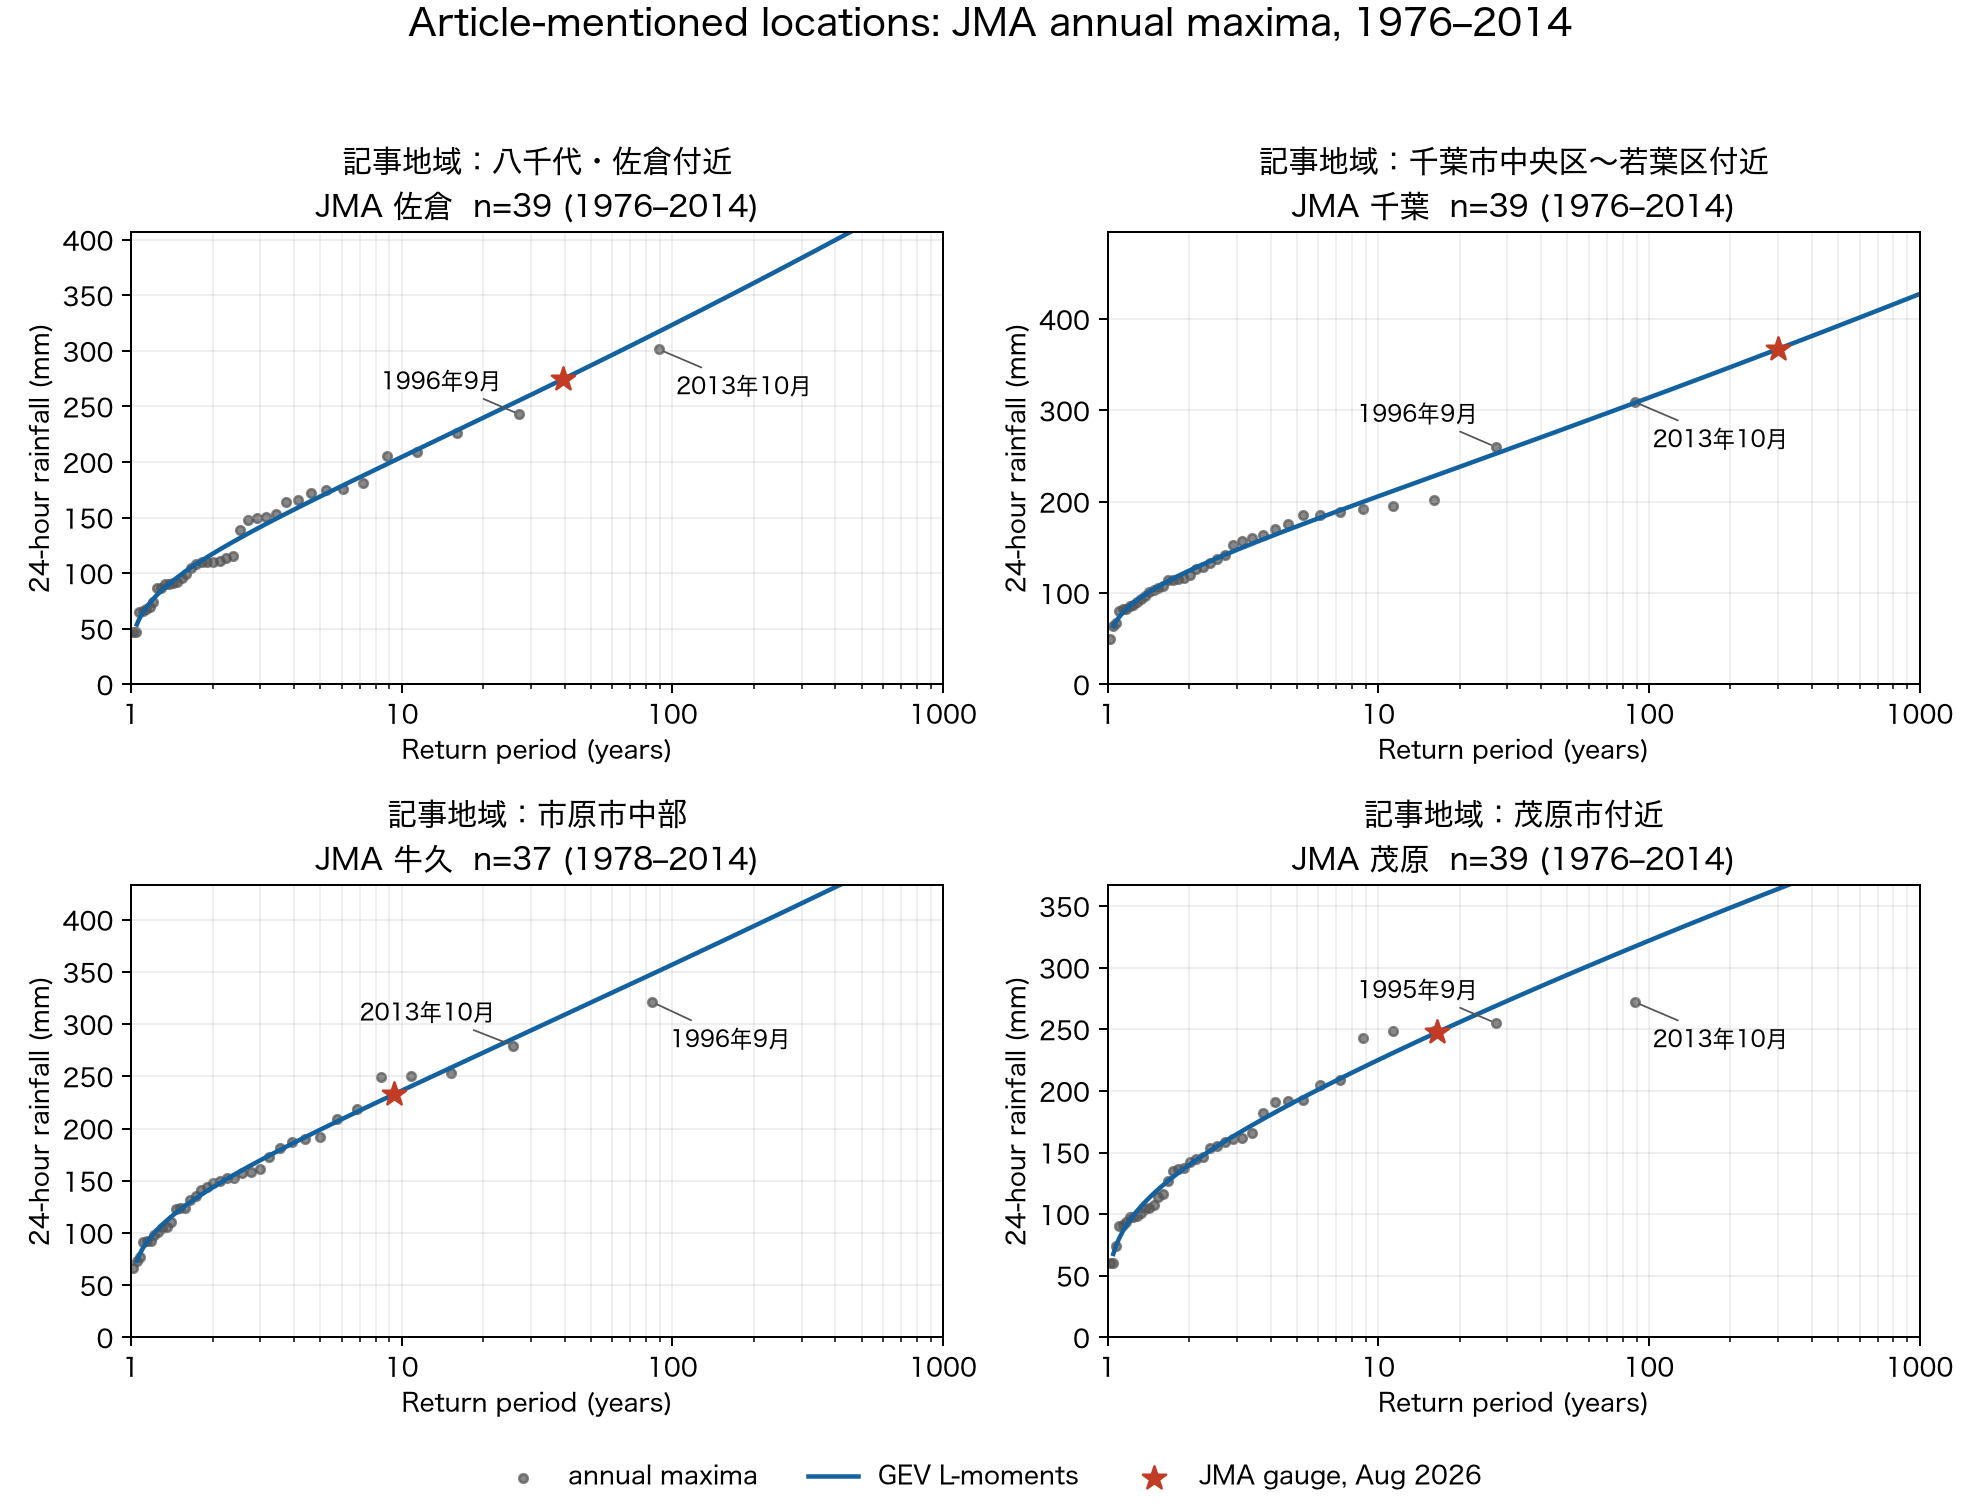
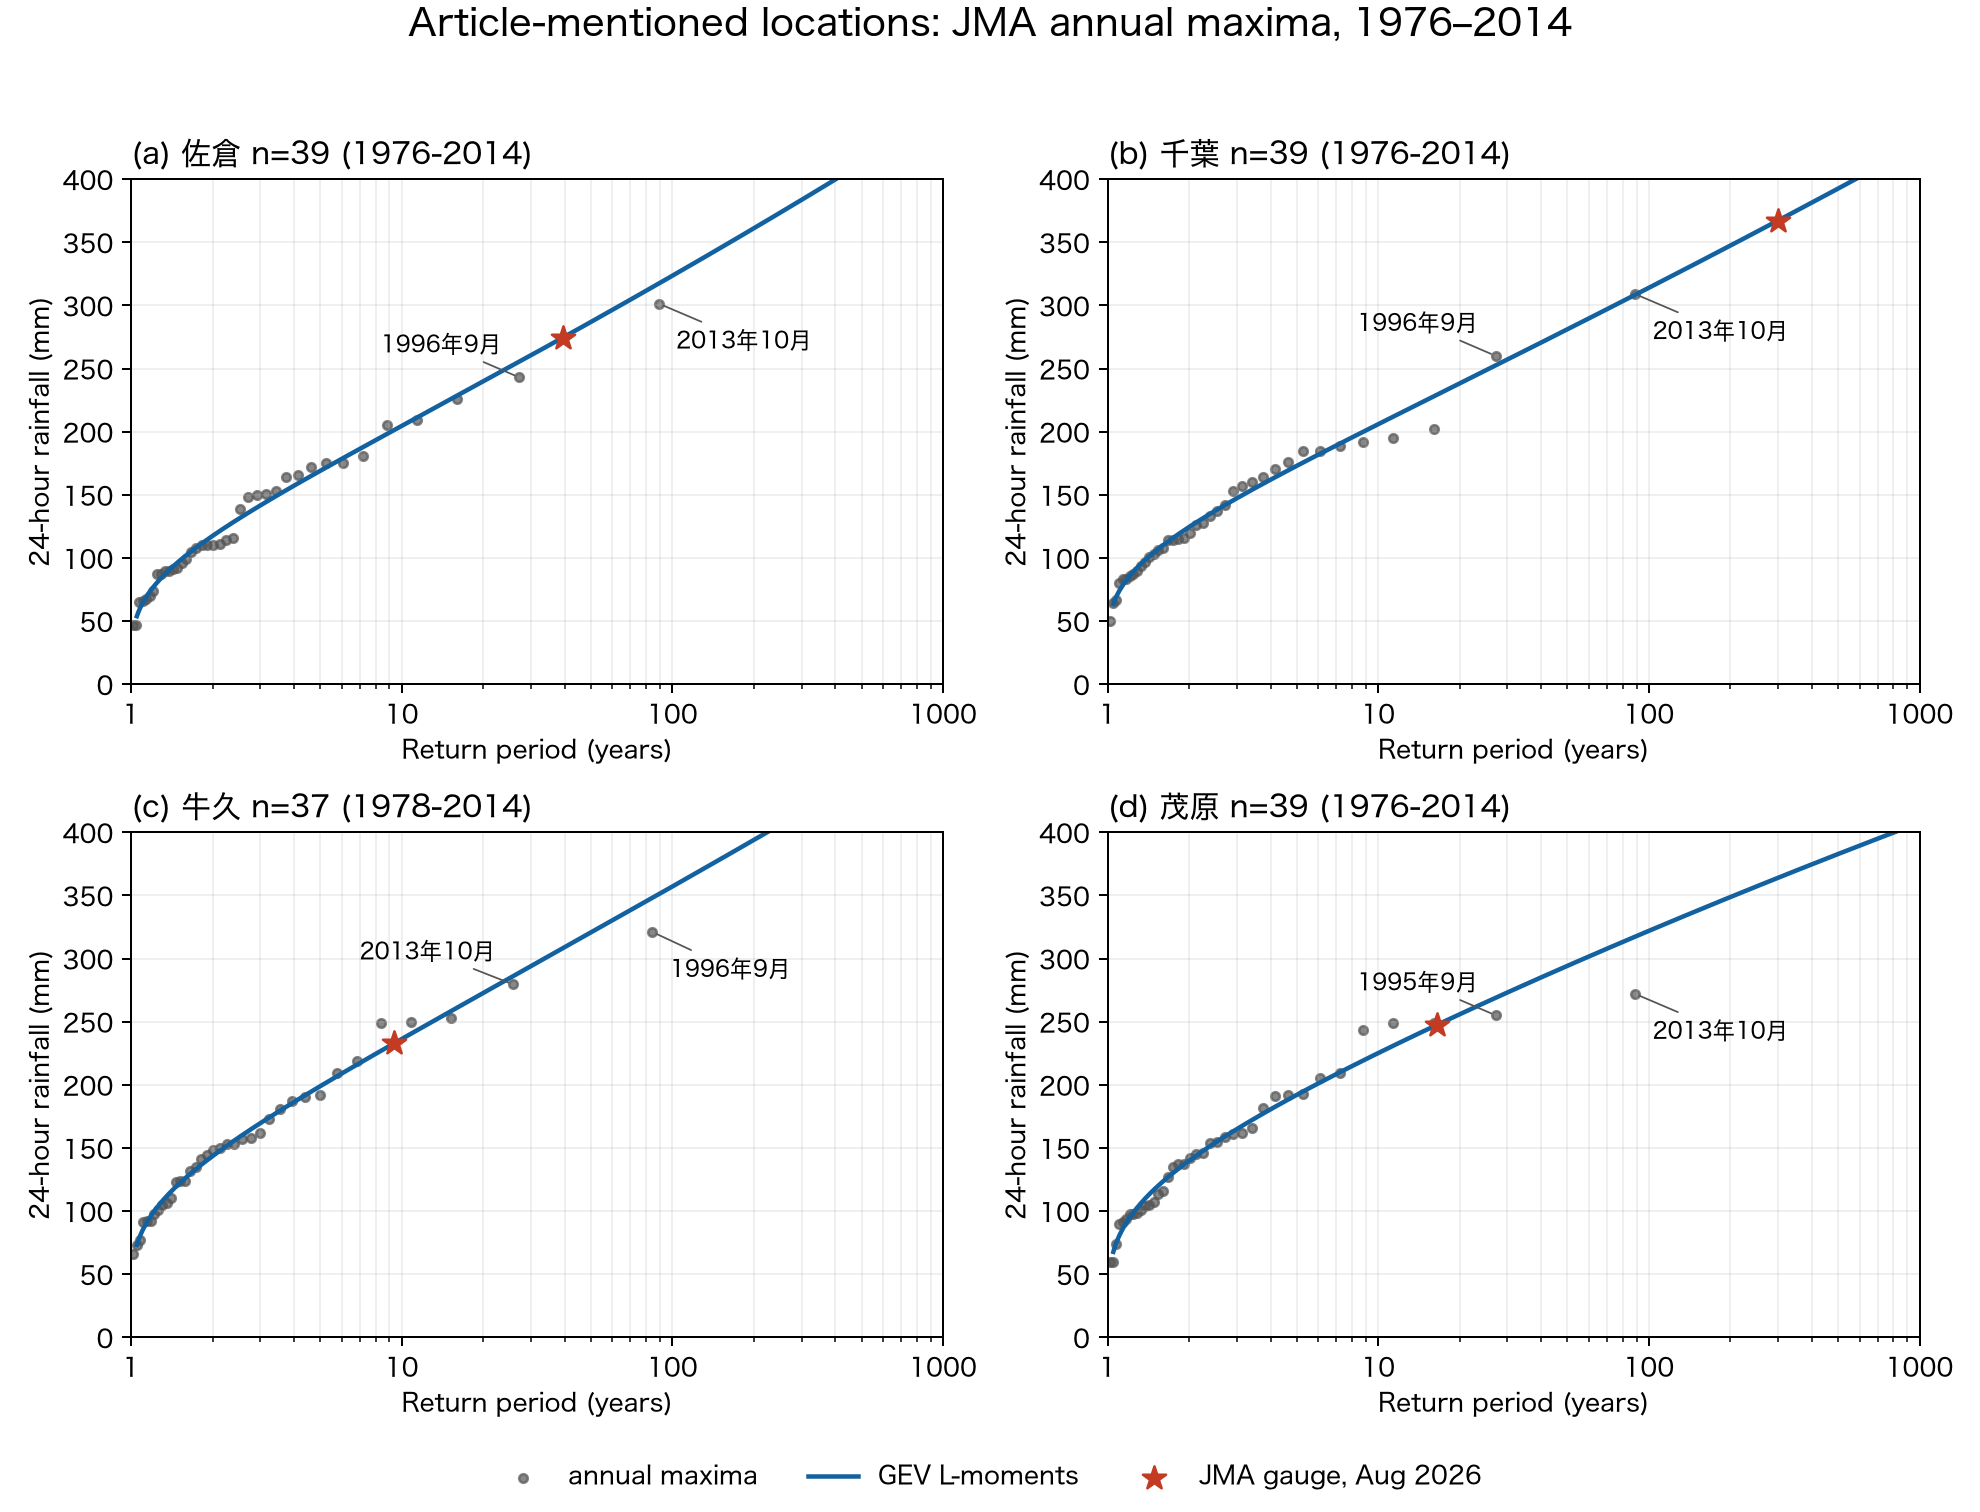
Standardize historical plot panels

diff --git a/src/chiba_heavy_rain/analysis.py b/src/chiba_heavy_rain/analysis.py
@@ -5,6 +5,7 @@ from __future__ import annotations
 import argparse
 import math
 import re
+import string
 from pathlib import Path
 
 import matplotlib.pyplot as plt
@@ -108,6 +109,8 @@ def _plot_return_levels(
     output: Path,
     title: str = "Observed annual maxima and stationary GEV L-moment fits",
     annotate_maximum: bool = False,
+    fixed_ylim: tuple[float, float] | None = None,
+    lettered_titles: bool = False,
 ) -> None:
     eligible = results.loc[results["eligible"]].sort_values("station")
     ncols = 2 if len(eligible) <= 4 else 3
@@ -115,7 +118,9 @@ def _plot_return_levels(
     figure_width = 11 if ncols == 2 else 13
     fig, axes = plt.subplots(nrows, ncols, figsize=(figure_width, 4.2 * nrows), squeeze=False)
     periods = np.geomspace(1.05, 1000, 500)
-    for ax, (_, row) in zip(axes.ravel(), eligible.iterrows(), strict=False):
+    for panel_index, (ax, (_, row)) in enumerate(
+        zip(axes.ravel(), eligible.iterrows(), strict=False)
+    ):
         station = str(row["station"])
         values = series[station]["max_24h_mm"].to_numpy(float)
         fit = fit_gev(values)
@@ -165,13 +170,24 @@ def _plot_return_levels(
         # Keep short-record shape estimates from making the observed range unreadable.
         # The fitted curve may leave the panel at long return periods; that behavior is
         # itself a warning about extrapolation instability.
-        observed_cap = max(float(np.max(ordered)), float(row["event_24h_mm"]))
-        ax.set_ylim(0, observed_cap * 1.35)
-        station_label = str(row.get("display_label", station))
-        ax.set_title(
-            f"{station_label}\nJMA {station}  n={int(row['n_years'])} "
-            f"({int(row['start_year'])}–{int(row['end_year'])})"
-        )
+        if fixed_ylim is None:
+            observed_cap = max(float(np.max(ordered)), float(row["event_24h_mm"]))
+            ax.set_ylim(0, observed_cap * 1.35)
+        else:
+            ax.set_ylim(*fixed_ylim)
+        if lettered_titles:
+            ax.set_title(
+                f"({string.ascii_lowercase[panel_index]}) {station} "
+                f"n={int(row['n_years'])} "
+                f"({int(row['start_year'])}-{int(row['end_year'])})",
+                loc="left",
+            )
+        else:
+            station_label = str(row.get("display_label", station))
+            ax.set_title(
+                f"{station_label}\nJMA {station}  n={int(row['n_years'])} "
+                f"({int(row['start_year'])}–{int(row['end_year'])})"
+            )
         ax.set_xlabel("Return period (years)")
         ax.set_ylabel("24-hour rainfall (mm)")
         ax.grid(which="both", alpha=0.2)
@@ -355,6 +371,8 @@ def run(raw_dir: Path, results_dir: Path, refresh: bool, bootstrap_samples: int)
         results_dir / "historical_1976_2014_return_levels.png",
         title="Article-mentioned locations: JMA annual maxima, 1976–2014",
         annotate_maximum=True,
+        fixed_ylim=(0, 400),
+        lettered_titles=True,
     )
     _plot_period_comparison(
         results, period_results, results_dir / "historical_period_comparison.png"
@@ -394,6 +412,8 @@ def render_existing(results_dir: Path, bootstrap_samples: int) -> pd.DataFrame:
         results_dir / "historical_1976_2014_return_levels.png",
         title="Article-mentioned locations: JMA annual maxima, 1976–2014",
         annotate_maximum=True,
+        fixed_ylim=(0, 400),
+        lettered_titles=True,
     )
     _plot_period_comparison(
         results, period_results, results_dir / "historical_period_comparison.png"
